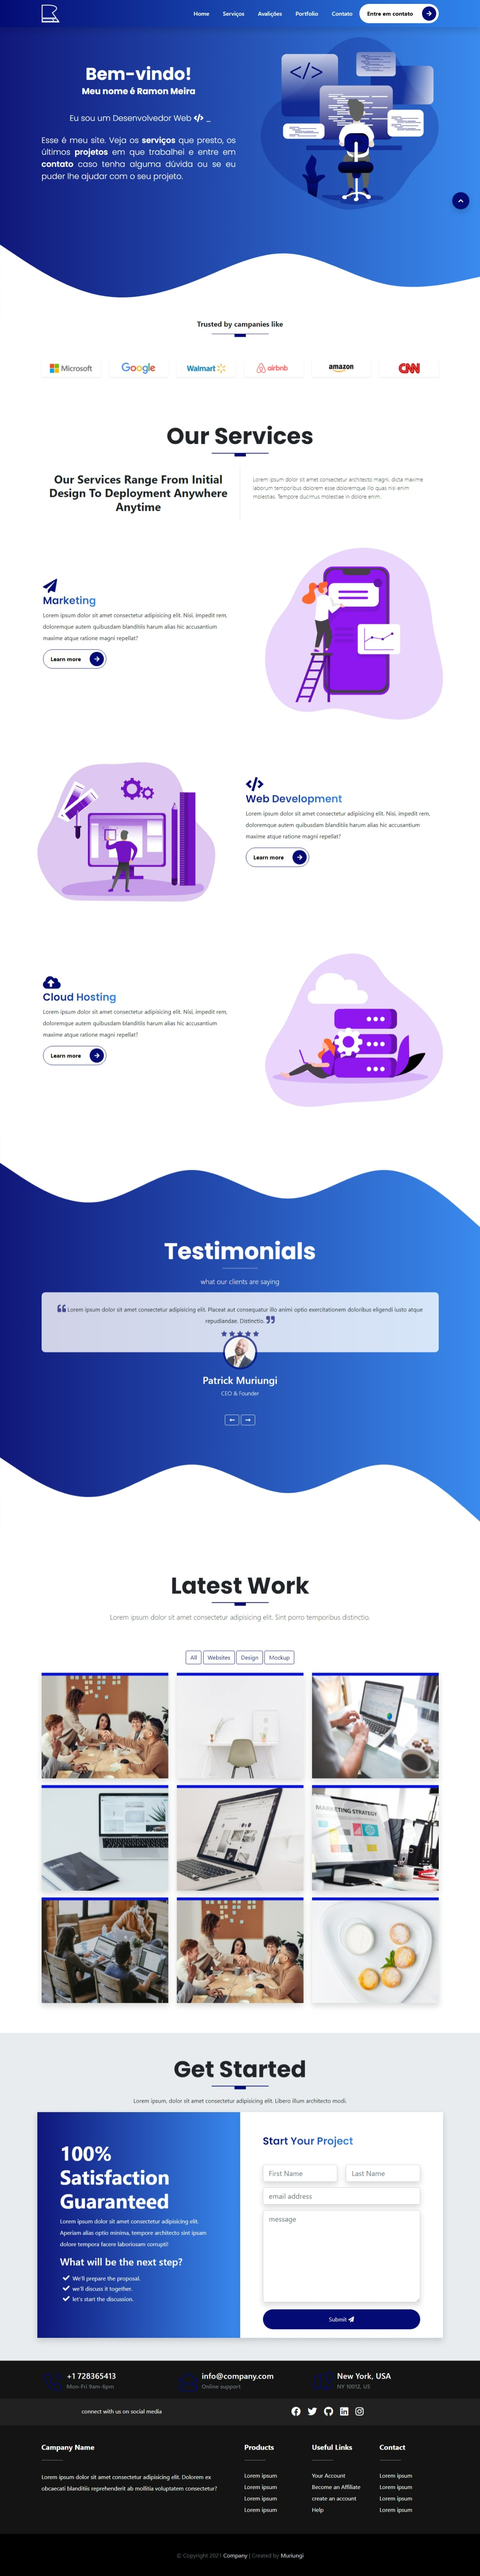
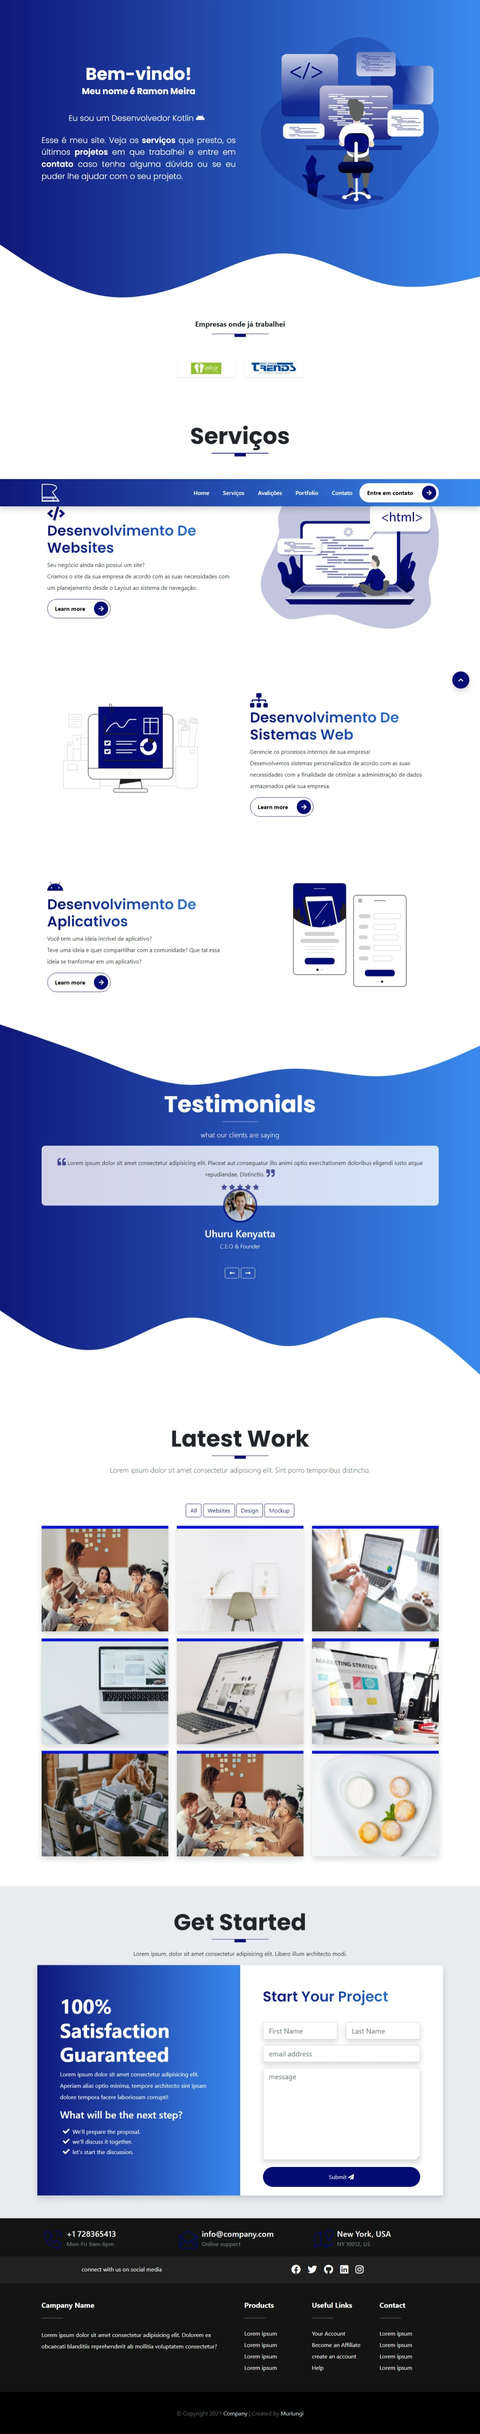
0.5.0 - Update: Services section

diff --git a/index.html b/index.html
@@ -250,11 +250,11 @@
         <section id="services" class="services">
             <div class="container">
                 <div class="row text-center">
-                    <h1 class="display-3 fw-bold">Our Services</h1>
+                    <h1 class="display-3 fw-bold">Serviços</h1>
                     <div class="heading-line mb-1"></div>
                 </div>
                 <!-- START THE DESCRIPTION CONTENT  -->
-                <div class="row pt-2 pb-2 mt-0 mb-3">
+                <!-- <div class="row pt-2 pb-2 mt-0 mb-3">
                     <div class="col-md-6 border-right">
                         <div class="bg-white p-3">
                             <h2 class="fw-bold text-capitalize text-center">
@@ -275,40 +275,43 @@
                         </div>
                     </div>
                 </div>
+        </div> -->
             </div>
 
             <!-- START THE CONTENT FOR THE SERVICES  -->
             <div class="container">
                 <!-- START THE MARKETING CONTENT  -->
                 <div class="row">
-                    <div
-                        class="col-lg-6 col-md-6 col-sm-12 col-xs-12 services mt-4"
-                    >
+                    <div class="col-lg-6 col-md-6 col-sm-12 col-xs-12 mt-4">
                         <div class="services__content">
-                            <div class="icon d-block fas fa-paper-plane"></div>
-                            <h3 class="display-3--title mt-1">Marketing</h3>
+                            <div class="icon d-block fas fa-code"></div>
+                            <h3 class="display-3--title mt-1">
+                                Desenvolvimento de Websites
+                            </h3>
                             <p class="lh-lg">
-                                Lorem ipsum dolor sit amet consectetur
-                                adipisicing elit. Nisi, impedit rem, doloremque
-                                autem quibusdam blanditiis harum alias hic
-                                accusantium maxime atque ratione magni repellat?
+                                Seu negócio ainda não possui um site? <br />
+                                Criamos o site da sua empresa de acordo com as
+                                suas necessidades com um planejamento desde o
+                                Layout ao sistema de navegação.
                             </p>
                             <button
                                 type="button"
                                 class="rounded-pill btn-rounded border-primary"
                             >
                                 Learn more
-                                <span><i class="fas fa-arrow-right"></i></span>
+                                <span>
+                                    <i class="fas fa-arrow-right"></i>
+                                </span>
                             </button>
                         </div>
                     </div>
                     <div
-                        class="col-lg-6 col-md-6 col-sm-12 col-xs-12 services mt-4 text-end"
+                        class="col-lg-6 col-md-6 col-sm-12 col-xs-12 mt-4 text-end"
                     >
                         <div class="services__pic">
                             <img
-                                src="images/services/service-1.png"
-                                alt="marketing illustration"
+                                src="images/services/HTML_Monochromatic.png"
+                                alt="marketing ilustration"
                                 class="img-fluid"
                             />
                         </div>
@@ -317,91 +320,105 @@
                 <!-- START THE WEB DEVELOPMENT CONTENT  -->
                 <div class="row">
                     <div
-                        class="col-lg-6 col-md-6 col-sm-12 col-xs-12 services mt-4 text-start"
+                        class="col-lg-6 col-md-6 col-sm-12 col-xs-12 mt-4 text-start"
                     >
                         <div class="services__pic">
                             <img
-                                src="images/services/service-2.png"
-                                alt="web development illustration"
+                                src="images/services/Report analysis _Flatline.png"
+                                alt="web development ilustration"
                                 class="img-fluid"
                             />
                         </div>
                     </div>
-                    <div
-                        class="col-lg-6 col-md-6 col-sm-12 col-xs-12 services mt-4"
-                    >
+                    <div class="col-lg-6 col-md-6 col-sm-12 col-xs-12 mt-4">
                         <div class="services__content">
-                            <div class="icon d-block fas fa-code"></div>
+                            <div class="icon d-block fas fa-sitemap"></div>
                             <h3 class="display-3--title mt-1">
-                                web development
+                                Desenvolvimento de Sistemas Web
                             </h3>
                             <p class="lh-lg">
-                                Lorem ipsum dolor sit amet consectetur
-                                adipisicing elit. Nisi, impedit rem, doloremque
-                                autem quibusdam blanditiis harum alias hic
-                                accusantium maxime atque ratione magni repellat?
+                                Gerencie os processos internos de sua empresa!
+                                <br />
+                                Desenvolvemos sistemas personalizados de acordo
+                                com as suas necessidades com a finalidade de
+                                otimizar a administração de dados armazenados
+                                pela sua empresa.
                             </p>
                             <button
                                 type="button"
                                 class="rounded-pill btn-rounded border-primary"
                             >
                                 Learn more
-                                <span><i class="fas fa-arrow-right"></i></span>
+                                <span>
+                                    <i class="fas fa-arrow-right"></i>
+                                </span>
                             </button>
                         </div>
                     </div>
                 </div>
                 <!-- START THE CLOUD HOSTING CONTENT  -->
                 <div class="row">
-                    <div
-                        class="col-lg-6 col-md-6 col-sm-12 col-xs-12 services mt-4"
-                    >
+                    <div class="col-lg-6 col-md-6 col-sm-12 col-xs-12 mt-4">
                         <div class="services__content">
-                            <div
-                                class="icon d-block fas fa-cloud-upload-alt"
-                            ></div>
-                            <h3 class="display-3--title mt-1">cloud hosting</h3>
+                            <div class="icon d-block fab fa-android"></div>
+                            <h3 class="display-3--title mt-1">
+                                Desenvolvimento de Aplicativos
+                            </h3>
                             <p class="lh-lg">
-                                Lorem ipsum dolor sit amet consectetur
-                                adipisicing elit. Nisi, impedit rem, doloremque
-                                autem quibusdam blanditiis harum alias hic
-                                accusantium maxime atque ratione magni repellat?
+                                Você tem uma ideia incrível de aplicativo?
+                                <br />
+                                Teve uma ideia e quer compartilhar com a
+                                comunidade? Que tal essa ideia se tranformar em
+                                um aplicativo?
                             </p>
                             <button
                                 type="button"
                                 class="rounded-pill btn-rounded border-primary"
                             >
                                 Learn more
-                                <span><i class="fas fa-arrow-right"></i></span>
+                                <span>
+                                    <i class="fas fa-arrow-right"></i>
+                                </span>
                             </button>
                         </div>
                     </div>
                     <div
-                        class="col-lg-6 col-md-6 col-sm-12 col-xs-12 services mt-4 text-end"
+                        class="col-lg-6 col-md-6 col-sm-12 col-xs-12 mt-4 text-end"
                     >
                         <div class="services__pic">
                             <img
-                                src="images/services/service-3.png"
-                                alt="cloud hosting illustration"
+                                src="images/services/Landing Page_Flatline.png"
+                                alt="Cloud hosting ilustration"
                                 class="img-fluid"
                             />
                         </div>
                     </div>
                 </div>
             </div>
+            <svg
+                xmlns="http://www.w3.org/2000/svg"
+                viewBox="0 95 1440 200"
+                class="services__end"
+            >
+                <path
+                    fill="#ffffff"
+                    fill-opacity="1"
+                    d="M0,96L48,112C96,128,192,160,288,197.3C384,235,480,277,576,277.3C672,277,768,235,864,229.3C960,224,1056,256,1152,250.7C1248,245,1344,203,1392,181.3L1440,160L1440,0L1392,0C1344,0,1248,0,1152,0C1056,0,960,0,864,0C768,0,672,0,576,0C480,0,384,0,288,0C192,0,96,0,48,0L0,0Z"
+                ></path>
+            </svg>
         </section>
 
         <!-- ////////////////////////////////////////////////////////////////////////////////////////////////
                                START SECTION 5 - THE TESTIMONIALS  
 /////////////////////////////////////////////////////////////////////////////////////////////////////-->
         <section id="testimonials" class="testimonials">
-            <svg xmlns="http://www.w3.org/2000/svg" viewBox="0 0 1440 320">
+            <!-- <svg xmlns="http://www.w3.org/2000/svg" viewBox="0 0 1440 320">
                 <path
                     fill="#fff"
                     fill-opacity="1"
-                    d="M0,96L48,128C96,160,192,224,288,213.3C384,203,480,117,576,117.3C672,117,768,203,864,202.7C960,203,1056,117,1152,117.3C1248,117,1344,203,1392,245.3L1440,288L1440,0L1392,0C1344,0,1248,0,1152,0C1056,0,960,0,864,0C768,0,672,0,576,0C480,0,384,0,288,0C192,0,96,0,48,0L0,0Z"
+          d="M0,96L48,112C96,128,192,160,288,197.3C384,235,480,277,576,277.3C672,277,768,235,864,229.3C960,224,1056,256,1152,250.7C1248,245,1344,203,1392,181.3L1440,160L1440,0L1392,0C1344,0,1248,0,1152,0C1056,0,960,0,864,0C768,0,672,0,576,0C480,0,384,0,288,0C192,0,96,0,48,0L0,0Z"
                 ></path>
-            </svg>
+      </svg> -->
             <div class="container">
                 <div class="row text-center text-white">
                     <h1 class="display-3 fw-bold">Testimonials</h1>

diff --git a/assets/css/style.css b/assets/css/style.css
@@ -10847,11 +10847,10 @@ textarea.form-control-lg {
   font-family: "Poppins", sans-serif;
 }
 .display-3--title {
-  font-size: 1.2rem;
+  font-size: 2rem;
   text-transform: capitalize;
   font-weight: 600;
   font-family: "Poppins", sans-serif;
-  display: inline-block;
   background-image: linear-gradient(to right, #040b74, #3084ed);
   background-clip: text;
   -webkit-background-clip: text;
@@ -10859,7 +10858,7 @@ textarea.form-control-lg {
 }
 @media (min-width: 992px) {
   .display-3--title {
-    font-size: 1.8rem;
+    font-size: 2.5rem;
   }
 }
 
@@ -10958,11 +10957,11 @@ textarea.form-control-lg {
 
 .services {
   position: relative;
-  padding: 1rem 0;
+  padding-top: 6rem;
 }
 .services__content {
   padding: 1rem;
-  margin-top: 0;
+  margin-top: 0rem;
 }
 .services__content p {
   font-size: 0.8rem;
@@ -10987,7 +10986,15 @@ textarea.form-control-lg {
   }
 }
 .services__pic {
-  max-width: 100%;
+  min-width: 100%;
+}
+@media (max-width: 767.98px) {
+  .services__pic {
+    margin: -3rem 0;
+  }
+}
+.services__end {
+  background: linear-gradient(to right, rgba(4, 11, 116, 0.95), rgba(48, 132, 237, 0.95));
 }
 
 .testimonials {

diff --git a/scss/components/_typography.scss b/scss/components/_typography.scss
@@ -65,18 +65,18 @@
     font-family: 'Poppins', sans-serif;
 
     &--title {
-        font-size: 1.2rem;
+        font-size: 2rem;
         text-transform: capitalize;
         font-weight: 600;
         font-family: 'Poppins', sans-serif;
-        display: inline-block;
+        // display: inline-block;
         background-image: linear-gradient(to right, $primary, $secondary);
         background-clip: text;
         -webkit-background-clip: text;
         -webkit-text-fill-color: transparent;
 
         @include media-breakpoint-up(lg) {
-            font-size: 1.8rem;
+            font-size: 2.5rem;
         }
     }
 }

diff --git a/scss/sections/_services.scss b/scss/sections/_services.scss
@@ -1,12 +1,13 @@
 @use '../custom' as *;
+@use '../components/mixins' as *;
 
 .services {
     position: relative;
-    padding: 1rem 0;
+  padding-top: 6rem;
 
     &__content {
         padding: 1rem;
-        margin-top: 0;
+    	margin-top: 0rem;
 
         p {
             font-size: 0.8rem;
@@ -31,6 +32,15 @@
     }
 
     &__pic {
-        max-width: 100%;
+    min-width: 100%;
+
+    @include media-breakpoint-down(md) {
+      margin: -3rem 0;
+    }
+  }
+
+  &__end {
+    // margin-top: -15rem;
+    @include gradient;
     }
 }

diff --git a/README.md b/README.md
@@ -28,6 +28,8 @@
 
 ## Versioning ([SemVer](http://semver.org/))
 
+-   0.5.0
+    -   Update: Services section
 -   0.4.0
     -   Update: Companies section
 -   0.3.0
@@ -44,7 +46,6 @@
 
 ## Backlog
 
--   Update: Services section
 -   Update: testimonial section
 -   Update: portfolio section
 -   Update: Get started section
